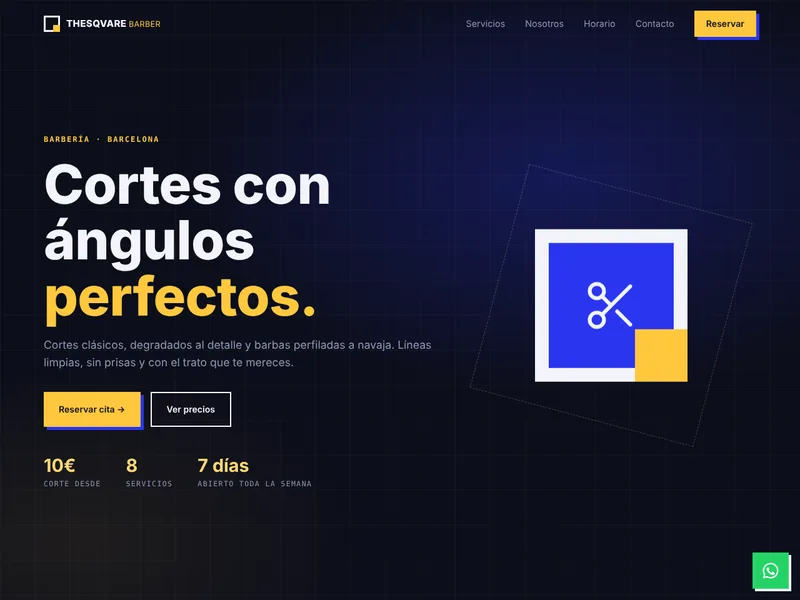
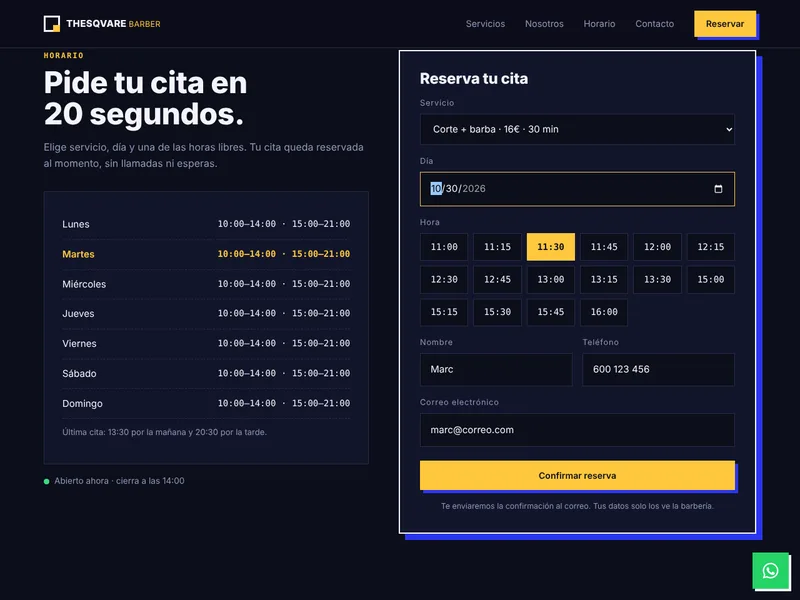
Ejemplos: barbería muestra la reserva y tercera tarjeta con la web de The Sqvare
Claude-Session: https://claude.ai/code/session_01RtUPo1ePECpCnfp2w4sD3v

Changed region(s): [[0.0312, 0.09, 1.0, 0.9], [0.5, 0.06, 0.9375, 0.09]]

diff --git a/index.html b/index.html
@@ -310,14 +310,14 @@ footer{font-family:var(--mono);font-size:.75rem}
         </a>
         <a class="browser real" href="/thesqvare-barber/" target="_blank" rel="noopener">
           <div class="bar"><i></i><i></i><i></i><span>thesqvare.com/thesqvare-barber</span></div>
-          <img class="shot" src="img/ejemplo-barber.webp?v=1" alt="Web de ejemplo de TheSqvare Barber: barbería con citas online" width="800" height="600" loading="lazy">
-          <div class="cap"><strong>Barbería</strong><span>Citas online →</span></div>
+          <img class="shot" src="img/ejemplo-barber.webp?v=2" alt="Web de ejemplo de TheSqvare Barber: barbería con citas online" width="800" height="600" loading="lazy">
+          <div class="cap"><strong>Barbería</strong><span>Reserva de citas →</span></div>
         </a>
-        <figure class="browser d3" style="margin:0">
-          <div class="bar"><i></i><i></i><i></i><span>talleres-ruedas.es</span></div>
-          <div class="site"><span class="nm">Ruedas</span><div class="hero-b">Pide presupuesto</div><div class="row"><b></b><b></b><b></b><b></b></div></div>
-          <figcaption class="cap"><strong>Taller</strong><span>Serio y directo</span></figcaption>
-        </figure>
+        <a class="browser real" href="/" aria-label="Web de The Sqvare">
+          <div class="bar"><i></i><i></i><i></i><span>thesqvare.com</span></div>
+          <img class="shot" src="img/ejemplo-thesqvare.webp?v=1" alt="Portada de la web de The Sqvare" width="800" height="600" loading="lazy">
+          <div class="cap"><strong>The Sqvare</strong><span>Esta misma web →</span></div>
+        </a>
       </div>
       <p class="note">Pulsa en un ejemplo para probarlo: las reservas funcionan de verdad.</p>
     </div>
